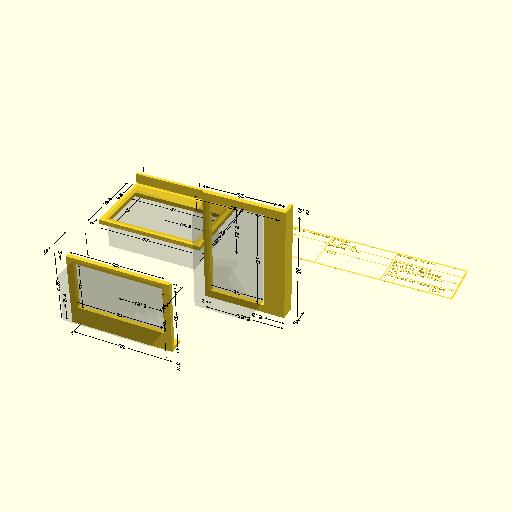
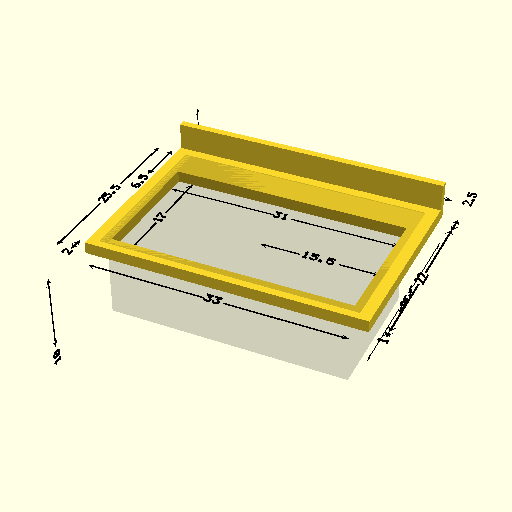
update with views

Changed region(s): [[0.0938, 0.2188, 0.9062, 0.75], [0.0938, 0.6562, 0.125, 0.7188], [0.9062, 0.375, 0.9375, 0.4062]]

diff --git a/README.md b/README.md
@@ -20,8 +20,20 @@ Repo to learn the art of openscad
 ## preview/modules/cabinets/platform.png
 <img src="https://raw.githubusercontent.com/neotericpiguy/Drawings/dev/preview/modules/cabinets/platform.png" width="650">
 
+## preview/modules/cabinets/sink_front_view.png
+<img src="https://raw.githubusercontent.com/neotericpiguy/Drawings/dev/preview/modules/cabinets/sink_front_view.png" width="650">
+
+## preview/modules/cabinets/sink_iso_view.png
+<img src="https://raw.githubusercontent.com/neotericpiguy/Drawings/dev/preview/modules/cabinets/sink_iso_view.png" width="650">
+
+## preview/modules/cabinets/sink_side_view.png
+<img src="https://raw.githubusercontent.com/neotericpiguy/Drawings/dev/preview/modules/cabinets/sink_side_view.png" width="650">
+
 ## preview/modules/cabinets/sink_top.png
 <img src="https://raw.githubusercontent.com/neotericpiguy/Drawings/dev/preview/modules/cabinets/sink_top.png" width="650">
+
+## preview/modules/cabinets/sink_top_view.png
+<img src="https://raw.githubusercontent.com/neotericpiguy/Drawings/dev/preview/modules/cabinets/sink_top_view.png" width="650">
 
 ## preview/modules/common/l_bracket.png
 <img src="https://raw.githubusercontent.com/neotericpiguy/Drawings/dev/preview/modules/common/l_bracket.png" width="650">
